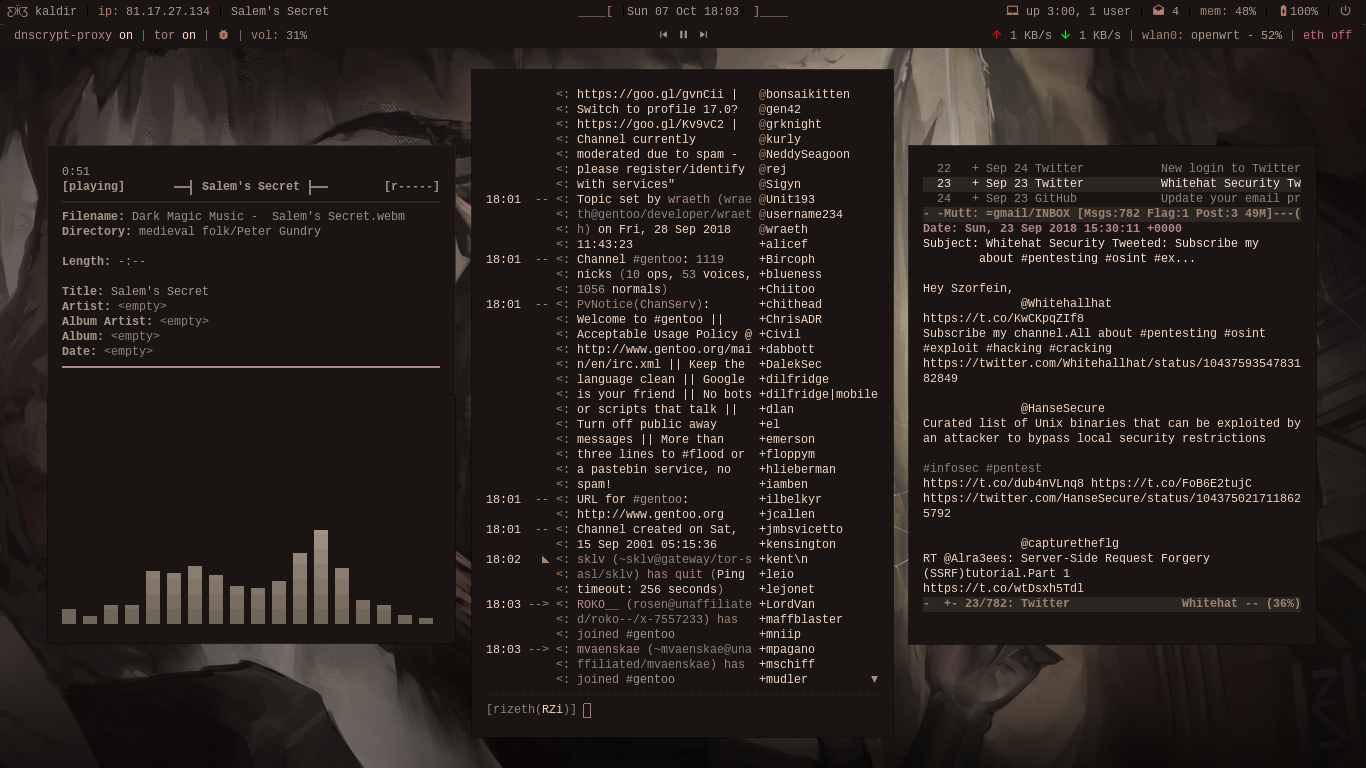
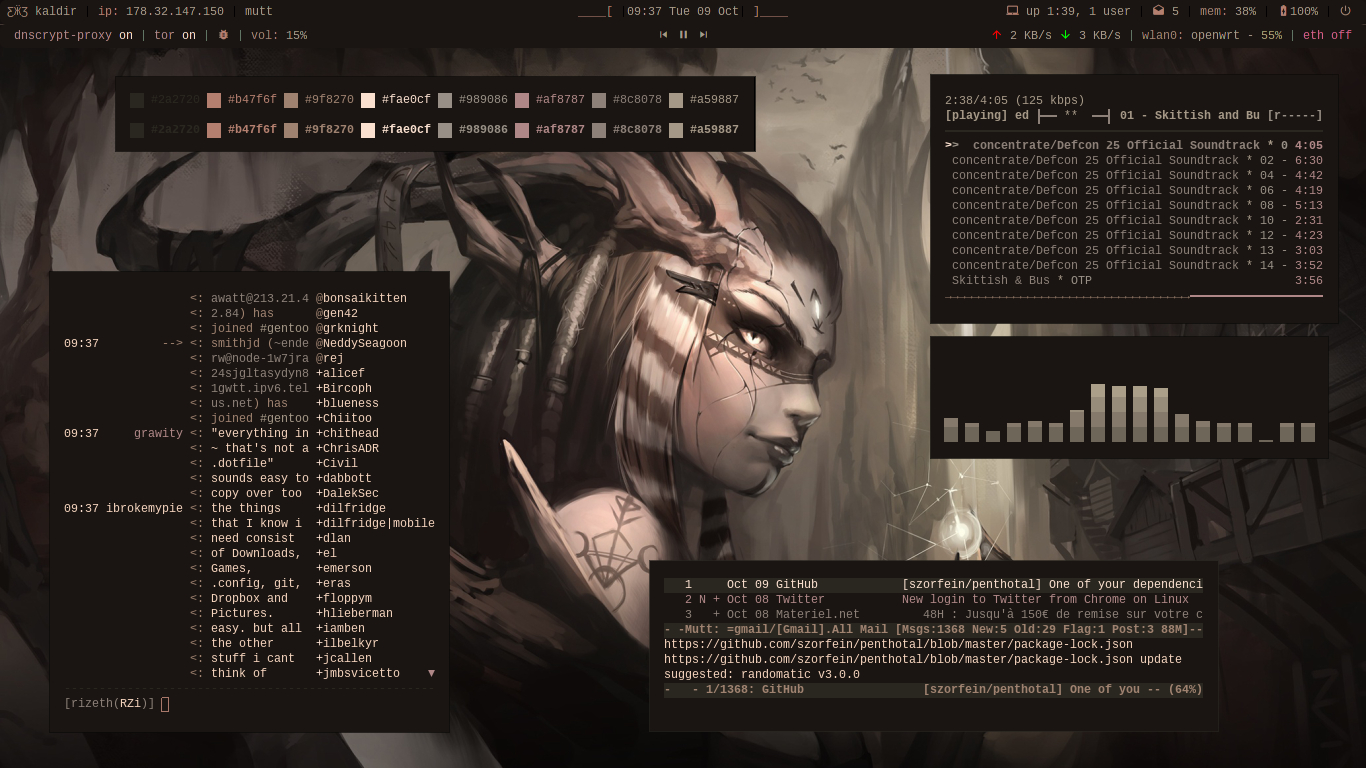
upd fantasy with vim color

diff --git a/README.md b/README.md
@@ -79,7 +79,7 @@ I use the plugin [oh-my-zsh](https://github.com/robbyrussell/oh-my-zsh) with the
 
 ## Screens
 
-**Last**:`theme-fantasy`, [wm]:*subtle* [term]: *kitty*.
+**Last**:`theme-fantasy`, [wm]:*subtle* [term]: *kitty*. [vim-color] [fantasy.vim](https://github.com/szorfein/fantasy.vim).
 
 ![Last screenshot](https://raw.githubusercontent.com/szorfein/dotfiles/master/screenshots/fantasy.jpg "fantasy")
 
